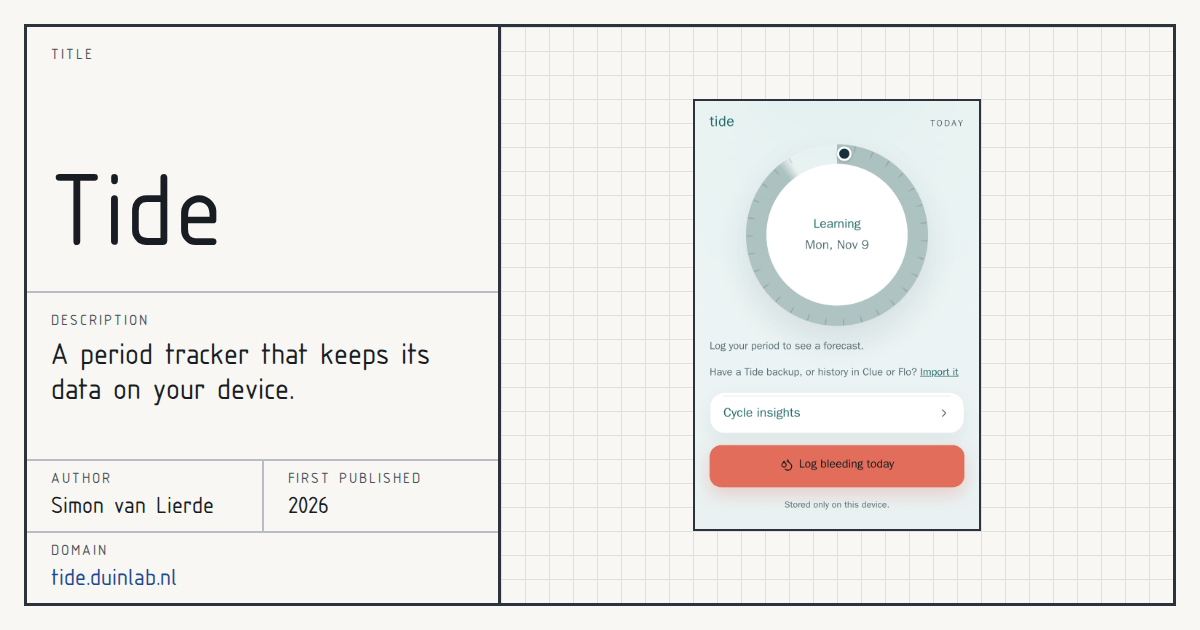
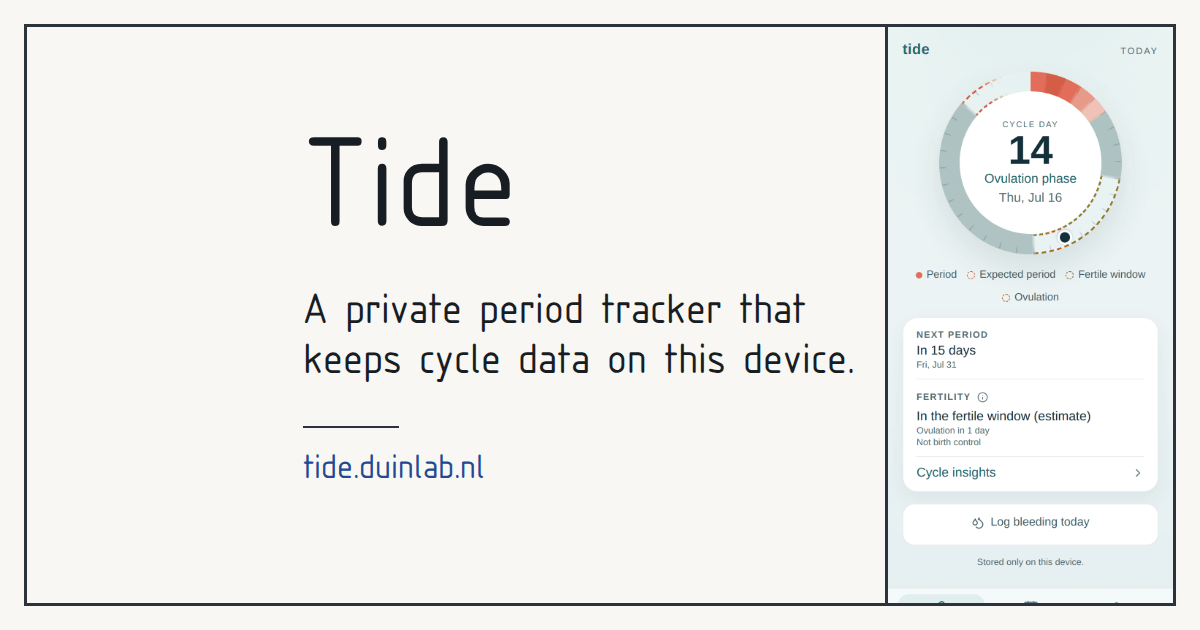
feat(social-card): re-render the card as a poster that reads at preview size
The title-block card showed field labels and a small screenshot that were texture at 300-500 px. It now shows
the name, one line, the address and the Today screen, made with simonvanlierde/simonvanlierde.github.io
social-card (d6041d9 on branch social-card-poster).

- og:image:alt states the card's message
- drop the second set of og tags that pointed og:image at the 512 px icon and could override the card
- the README says how to regenerate it

diff --git a/index.html b/index.html
@@ -16,23 +16,16 @@
     <link rel="apple-touch-icon" href="/icons/icon-192.png" />
     <meta property="og:type" content="website" />
     <meta property="og:title" content="Tide" />
+    <meta property="og:description" content="A private period tracker that keeps cycle data on this device." />
     <meta property="og:url" content="https://tide.duinlab.nl/" />
     <meta property="og:image" content="https://tide.duinlab.nl/og.png" />
     <meta property="og:image:width" content="1200" />
     <meta property="og:image:height" content="630" />
-    <meta property="og:image:alt" content="Tide on a phone: the Today screen with a grey cycle ring labelled Learning, a Cycle insights row and a red Log bleeding today button." />
+    <meta property="og:image:alt" content="Tide: a private period tracker that keeps cycle data on this device, at tide.duinlab.nl, beside the Today screen with its cycle ring." />
     <meta name="twitter:card" content="summary_large_image" />
     <title>Tide</title>
     <meta name="description" content="A private period tracker that keeps cycle data on this device." />
     <link rel="canonical" href="https://tide.duinlab.nl/" />
-    <meta property="og:type" content="website" />
-    <meta property="og:url" content="https://tide.duinlab.nl/" />
-    <meta property="og:title" content="Tide" />
-    <meta property="og:description" content="A private period tracker that keeps cycle data on this device." />
-    <meta property="og:image" content="https://tide.duinlab.nl/icons/icon-512.png" />
-    <meta property="og:image:width" content="512" />
-    <meta property="og:image:height" content="512" />
-    <meta property="og:image:alt" content="The Tide app icon" />
     <!-- biome-ignore lint/performance/noSyncScripts: it must set the theme before first paint -->
     <script src="/theme.js"></script>
   </head>

diff --git a/README.md b/README.md
@@ -71,6 +71,18 @@ See [CONTRIBUTING.md](CONTRIBUTING.md) for the checks and architecture,
 [decision to keep data on the device](docs/adr/0001-local-first-no-backend.md).
 [Open an issue](https://github.com/simonvanlierde/tide/issues/new/choose) for bugs and ideas.
 
+## Social card
+
+`public/og.png` is the 1200x630 card shown when the link is shared. It is made with the generator in
+[my site repo](https://github.com/simonvanlierde/simonvanlierde.github.io/tree/main/scripts/social-card)
+(needs Docker). From a checkout of that repo, with this repo next to it:
+
+```sh
+pnpm gen:card --visual ../tide/docs/screenshots/today-light.png --name "Tide" \
+  --line "A private period tracker that keeps cycle data on this device." \
+  --domain tide.duinlab.nl --out ../tide/public/og.png
+```
+
 ## Deploy
 
 The app runs on a Cloudflare Worker that serves the build as static assets, configured in
